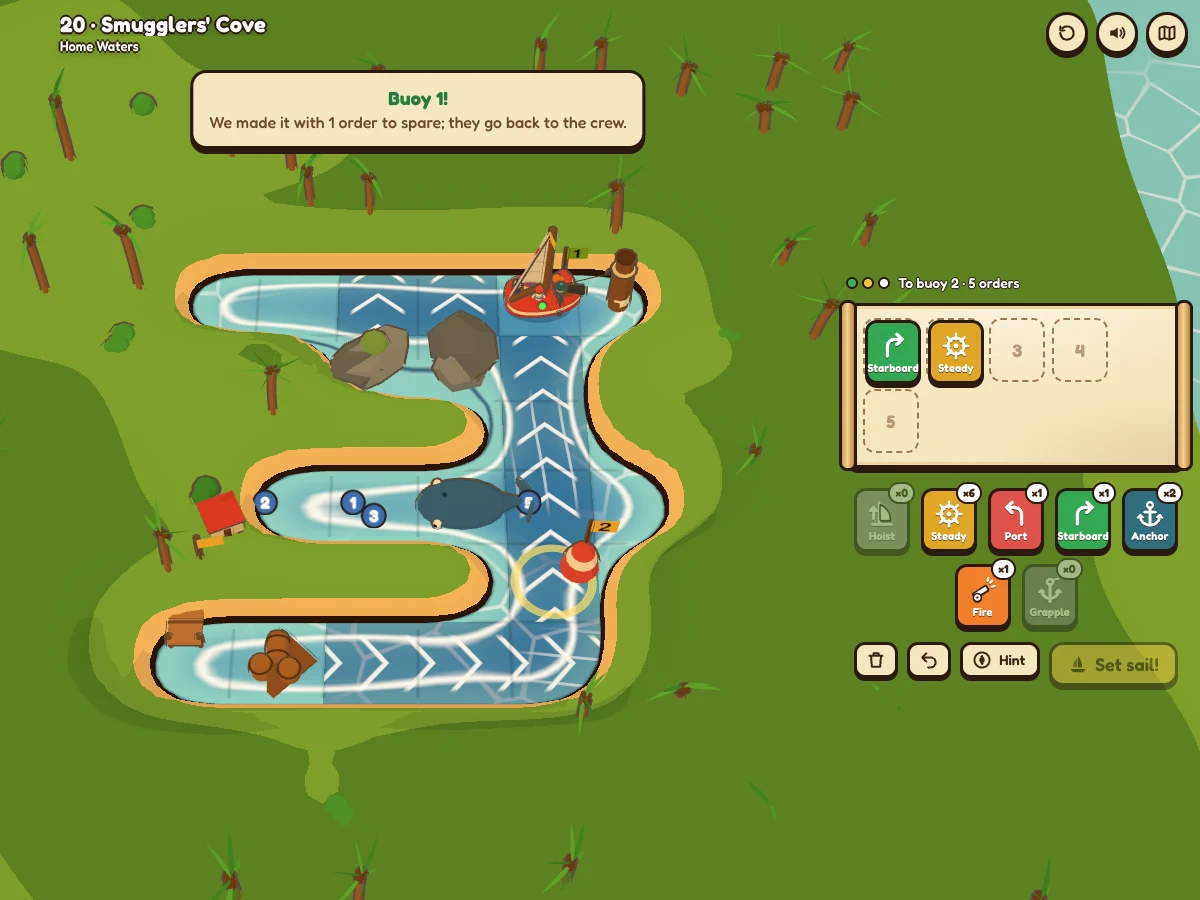
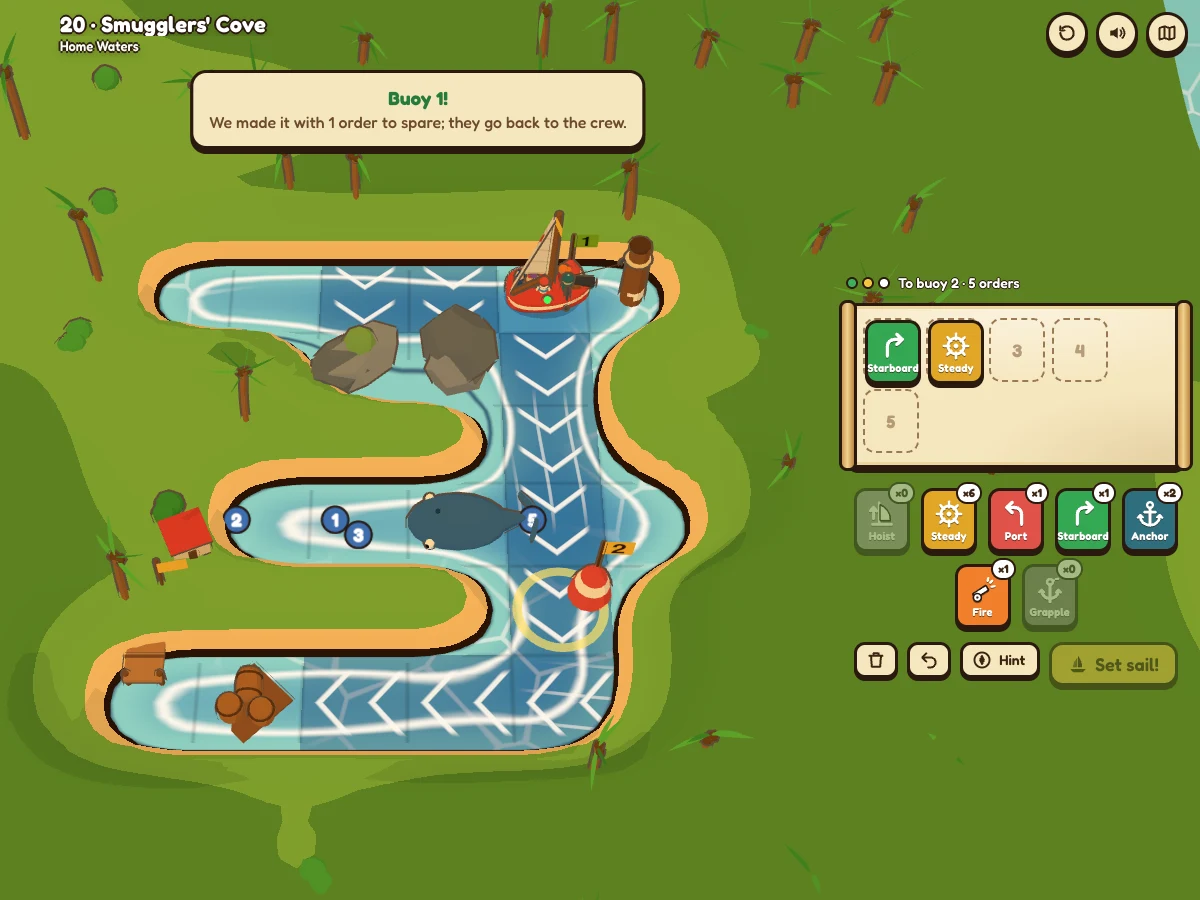
Sail: current arrows point the way they run, and the camera frames the water, not the land
- The chevrons on a current had their arms swept the wrong way, so they pointed
  upstream while sliding downstream. Now they point the way the water runs. New
  preview.
- The camera frames the chart's water squares (and the rocks, barrels, posts
  and whirlpools in them) with a strip of shore, not the whole map, so levels
  ringed with land come out bigger. It's centred by where the water falls on
  screen, aimed halfway between the middle of its box and the middle of the
  water itself, so an L-shaped sea like Crosscurrents' sits in the middle.
- Resizing the window re-fits the plan's cards, so the side panel no longer
  keeps them at their shrunken phone size.

diff --git a/sail/scene.js b/sail/scene.js
@@ -68,7 +68,7 @@ void main() {
     vec2 d = dirOf(info.r), n = vec2(-d.y, d.x);
     float s = dot(p, d), q = dot(f, n);
     col = mix(col, uCurrent, .6);
-    float ch = fract((s - abs(q) * .85) * 2. - uTime * 1.25);
+    float ch = fract((s + abs(q) * .85) * 2. - uTime * 1.25);   // arms swept back, so each points the way it runs
     float band = smoothstep(.0, .05, ch) * smoothstep(.2, .12, ch) * smoothstep(.36, .28, abs(q));
     float streak = smoothstep(.9, 1., sin(q * 19. + sin(s * 1.7) * 1.3)) * smoothstep(.3, .9, sin(s * 1.3 - uTime * 3.)) * .5;
     col = mix(col, uFoam, max(band * .9, streak * smoothstep(.45, .3, abs(q))));
@@ -171,24 +171,46 @@ export class Sea {
     this.rect = rect;
     this.fitCamera();
   }
+  // Frames the chart's sea, not its land: the box round every square that isn't land (the water, and the rocks,
+  // barrels, posts and whirlpools in it), with a strip of shore, and what stands on its far side. It's centred by where
+  // it falls on screen, since in a tilted view the far side comes out smaller than the near.
   fitCamera() {
-    const cam = this.camera, { x, y, w, h } = this.rect, cw = this.canvas.clientWidth, ch = this.canvas.clientHeight;
-    if (!this.lv || w < 10 || h < 10) return;
+    const cam = this.camera, { x, y, w, h } = this.rect, cw = this.canvas.clientWidth, ch = this.canvas.clientHeight, lv = this.lv;
+    if (!lv || w < 10 || h < 10) return;
     cam.aspect = w / h;
     cam.clearViewOffset();
-    const W = this.lv.W, H = this.lv.H, pitch = .98;   // radians down from level
-    const target = new THREE.Vector3(W / 2, 0, H / 2 + .15);
-    const dir = new THREE.Vector3(0, Math.sin(pitch), Math.cos(pitch));
-    const pts = [[0, 0, 0], [W, 0, 0], [0, 0, H], [W, 0, H], [0, .9, 0], [W, .9, 0]].map(p => new THREE.Vector3(...p));
-    // the nearest distance at which every corner of the chart (and what stands on its far edge) fits, with a margin
-    let lo = 2, hi = 200;
-    for (let i = 0; i < 30; i++) {
-      const d = (lo + hi) / 2;
-      cam.position.copy(target).addScaledVector(dir, d); cam.lookAt(target); cam.updateMatrixWorld(); cam.updateProjectionMatrix();
-      const fits = pts.every(p => { const q = p.clone().project(cam); return Math.abs(q.x) < .94 && q.y < .93 && q.y > -.95; });
-      if (fits) hi = d; else lo = d;
+    let x0 = lv.W, x1 = 0, y0 = lv.H, y1 = 0, sx = 0, sy = 0, n = 0;
+    for (let i = 0; i < lv.W * lv.H; i++) {
+      if (lv.kind[i] === LAND) continue;
+      const tx = i % lv.W, ty = Math.floor(i / lv.W);
+      x0 = Math.min(x0, tx); x1 = Math.max(x1, tx + 1); y0 = Math.min(y0, ty); y1 = Math.max(y1, ty + 1);
+      sx += tx + .5; sy += ty + .5; n++;
     }
-    cam.position.copy(target).addScaledVector(dir, hi); cam.lookAt(target);
+    const heart = new THREE.Vector3(sx / n, 0, sy / n);   // where the water mostly is: an L-shaped sea sits off its box's middle
+    const m = .45, pitch = .98;   // shore round the sea; the camera's tilt, down from level
+    x0 -= m; x1 += m; y0 -= m; y1 += m;
+    const pts = [[x0, 0, y0], [x1, 0, y0], [x0, 0, y1], [x1, 0, y1], [x0, .8, y0], [x1, .8, y0]].map(p => new THREE.Vector3(...p));
+    const dir = new THREE.Vector3(0, Math.sin(pitch), Math.cos(pitch)), target = new THREE.Vector3((x0 + x1) / 2, 0, (y0 + y1) / 2);
+    const aim = d => { cam.position.copy(target).addScaledVector(dir, d); cam.lookAt(target); cam.updateMatrixWorld(); cam.updateProjectionMatrix(); };
+    const spread = () => {
+      const e = { x0: 9, x1: -9, y0: 9, y1: -9 };
+      for (const p of pts) { const q = p.clone().project(cam); e.x0 = Math.min(e.x0, q.x); e.x1 = Math.max(e.x1, q.x); e.y0 = Math.min(e.y0, q.y); e.y1 = Math.max(e.y1, q.y); }
+      return e;
+    };
+    // the nearest the camera can be, aimed where it is, with it all in view
+    const fit = () => {
+      let lo = 1, hi = 300;
+      for (let i = 0; i < 28; i++) { const d = (lo + hi) / 2; aim(d); const e = spread(); if (e.x0 > -.93 && e.x1 < .93 && e.y0 > -.93 && e.y1 < .93) hi = d; else lo = d; }
+      aim(hi);
+      return hi;
+    };
+    for (let pass = 0; pass < 4; pass++) {
+      // slide the aim over so the middle of the frame is halfway between the box's middle and the water's heart
+      const d = fit(), e = spread(), c = heart.clone().project(cam), half = Math.tan(cam.fov * Math.PI / 360) * d;
+      target.x += ((e.x0 + e.x1) / 2 + c.x) / 2 * half * cam.aspect;
+      target.z -= ((e.y0 + e.y1) / 2 + c.y) / 2 * half / Math.sin(pitch);
+    }
+    fit();
     cam.setViewOffset(w, h, -x, -y, cw, ch);
     cam.updateProjectionMatrix();
   }

diff --git a/sail/main.js b/sail/main.js
@@ -517,6 +517,7 @@ function layout() {
   const vw = innerWidth, vh = innerHeight;
   document.body.classList.toggle('side', vw >= 860 && vw / vh > 1.12);
   const side = document.body.classList.contains('side');
+  if (G && !$('dock').hidden) fitCards();
   const top = $('top').hidden ? 0 : $('top').getBoundingClientRect().bottom + 6;
   let rect;
   if ($('dock').hidden || !G) rect = { x: 0, y: 0, w: vw, h: vh };
